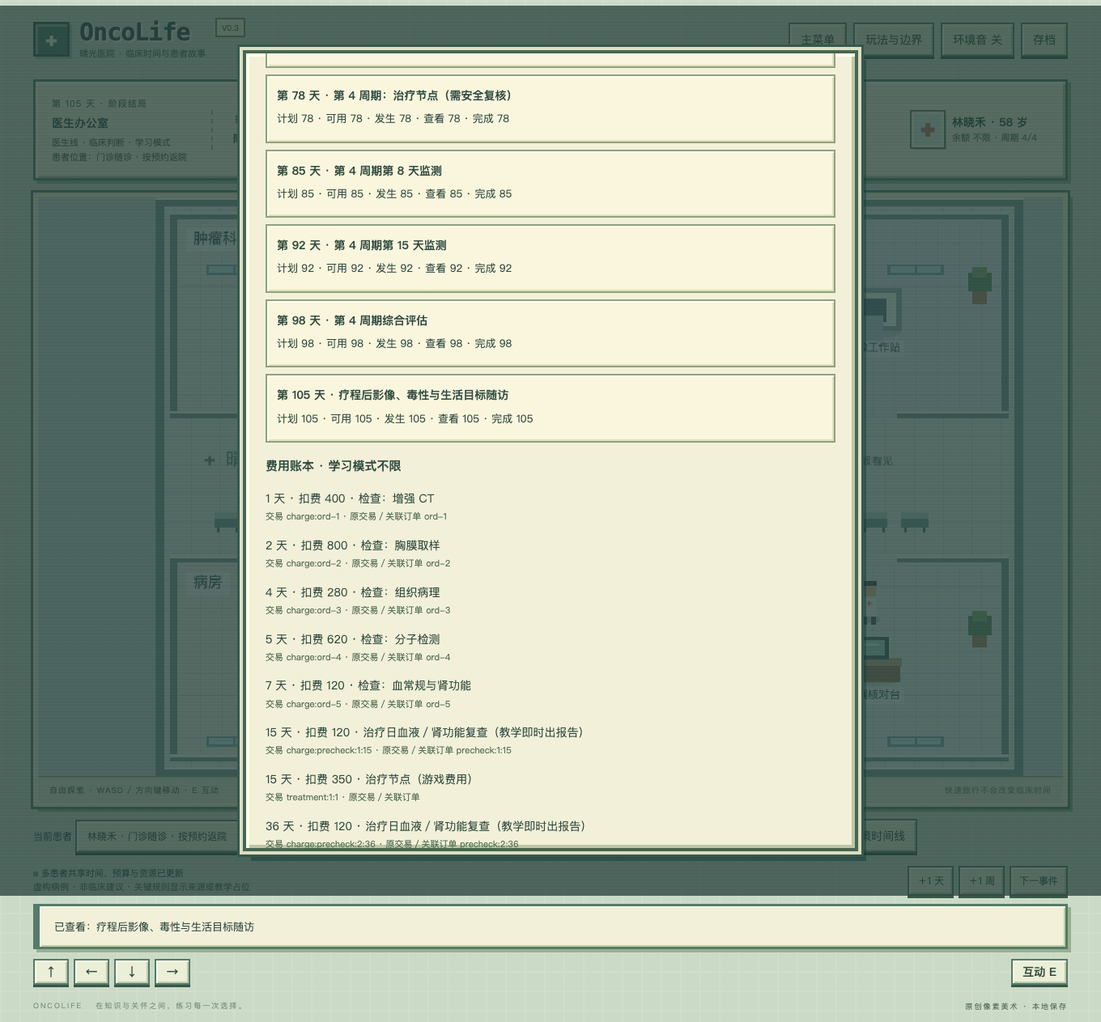
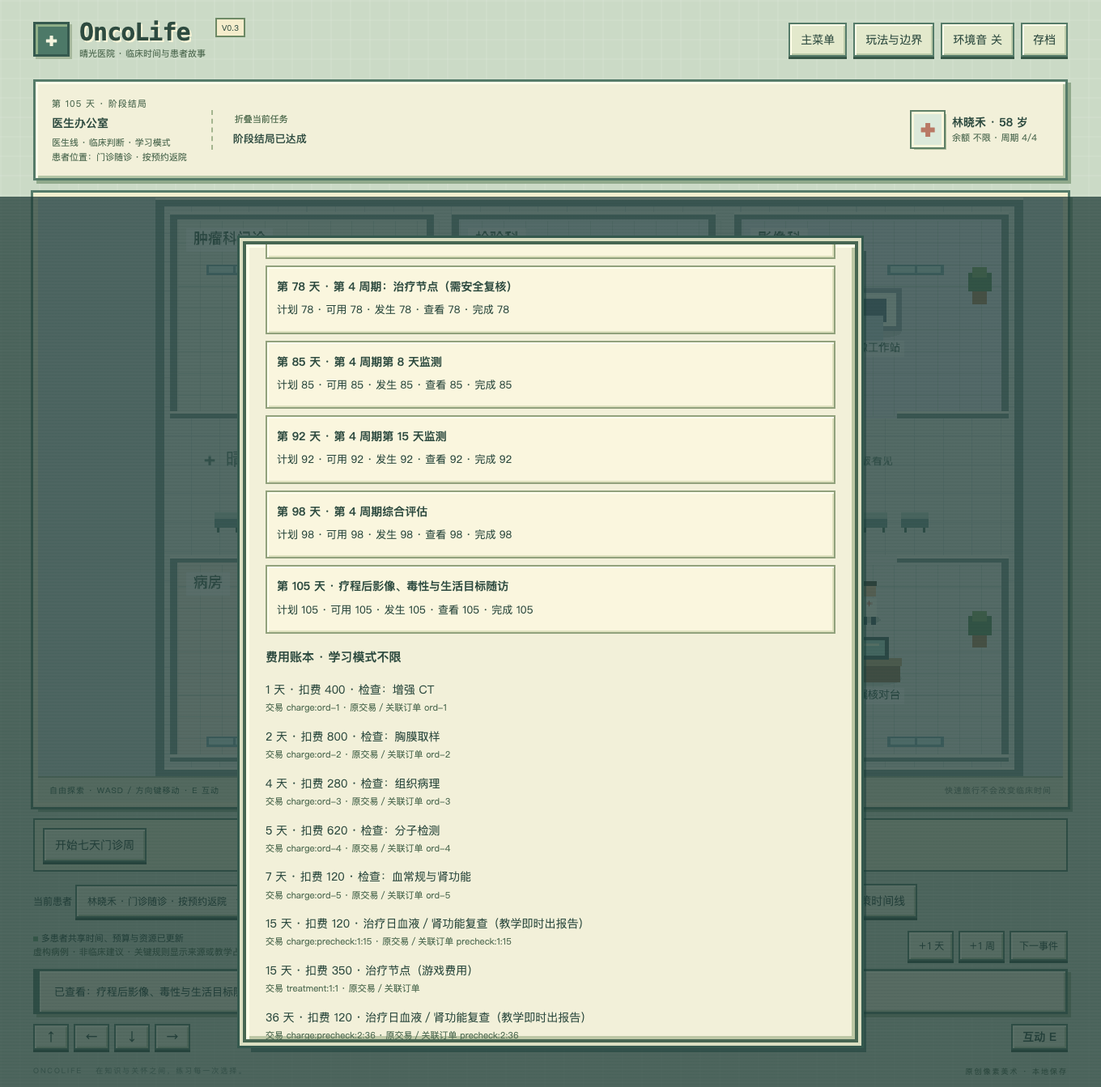
feat: add playable seven-day clinic growth and team stories

diff --git a/src/main.tsx b/src/main.tsx
@@ -1,3 +1,4 @@
+import {ClinicWeek} from './ui/ClinicWeek';
 import {careSetting} from './engine/care-setting';
 import {useEffect,useRef,useState} from 'react';
 import {createRoot} from 'react-dom/client';
@@ -18,13 +19,13 @@ function App(){
  useEffect(()=>{const f=(e:KeyboardEvent)=>{if(e.key==='Escape')g.open(null)};window.addEventListener('keydown',f);return()=>window.removeEventListener('keydown',f)},[g.open]);
  const c=cases[s.caseId], attention=nextAttention(s); const modeName=s.mode==='learning'?'学习模式':s.mode==='gauntlet'?'闯关模式':'挑战模式';
  const enter=(journey:'doctor'|'patient',mode:'learning'|'gauntlet'|'challenge',caseId?:typeof s.caseId)=>{g.enter(journey,mode,caseId);activeScene?.travel('lobby')};
- const menu=()=> <div className="overlay journey-menu"><section className="modal" role="dialog" aria-label="选择旅程"><small>ONCOLIFE / V0.3</small><h1>同一座医院，<br/>两段完整的临床旅程。</h1><p>选择身份和模式。闯关与挑战随机接诊，诊断随检查揭示。所有病例、费用与事件均为虚构教学模拟。</p><div className="journey-choices"><button onClick={()=>enter('doctor',s.mode)}><span>✚</span><h2>医生模式</h2><small>Clinical Journey</small><p>自由问诊、选择检查、解读证据、完成多周期治疗。</p><b>{savedEntry(localStorage,'doctor',s.mode)?'继续医生旅程':'开始医生旅程'} →</b></button><button onClick={()=>enter('patient',s.mode)}><span>☀</span><h2>患者模式</h2><small>Patient Journey</small><p>从症状出现、等待结果到参与治疗决策，记录生活体验。</p><b>{savedEntry(localStorage,'patient',s.mode)?'继续患者旅程':'开始患者旅程'} →</b></button></div><h3>游戏模式</h3><div className="actions"><button onClick={()=>enter(s.journey,'learning')}>学习模式 · 不限预算</button><button onClick={()=>enter(s.journey,'gauntlet')}>闯关模式 · 评分目标</button><button onClick={()=>enter(s.journey,'challenge')}>挑战模式 · 有限资源</button></div><p className="intro">首次进入闯关／挑战随机分配病例；已有进度则继续原存档。身份入口沿用当前模式。</p><details className="teaching-picker"><summary>指定教学病例 · 仅学习模式</summary><p>选择一个病例进行定向练习。此处会显示教学主题。</p><div className="casegrid">{caseList.map(x=><button key={x.id} onClick={()=>enter(s.journey,'learning',x.id)}><b>{x.title}</b><small>{x.summary}</small></button>)}</div></details><small>医生与患者存档独立保存；护士、检验人员和家属以 NPC 形式出现。</small></section></div>;
+ const menu=()=> <div className="overlay journey-menu"><section className="modal" role="dialog" aria-label="选择旅程"><small>ONCOLIFE / V0.3</small><h1>同一座医院，<br/>两段完整的临床旅程。</h1><p>选择身份和模式。闯关与挑战随机接诊，诊断随检查揭示。所有病例、费用与事件均为虚构教学模拟。</p><div className="journey-choices"><button onClick={()=>enter('doctor',s.mode)}><span>✚</span><h2>医生模式</h2><small>Clinical Journey</small><p>自由问诊、选择检查、解读证据、完成多周期治疗。</p><b>{savedEntry(localStorage,'doctor',s.mode)?'继续医生旅程':'开始医生旅程'} →</b></button><button onClick={()=>enter('patient',s.mode)}><span>☀</span><h2>患者模式</h2><small>Patient Journey</small><p>从症状出现、等待结果到参与治疗决策，记录生活体验。</p><b>{savedEntry(localStorage,'patient',s.mode)?'继续患者旅程':'开始患者旅程'} →</b></button></div><button className="week-entry" onClick={()=>{enter('doctor','learning');g.open('week');}}>七天门诊周 · 建设我的科室</button><h3>游戏模式</h3><div className="actions"><button onClick={()=>enter(s.journey,'learning')}>学习模式 · 不限预算</button><button onClick={()=>enter(s.journey,'gauntlet')}>闯关模式 · 评分目标</button><button onClick={()=>enter(s.journey,'challenge')}>挑战模式 · 有限资源</button></div><p className="intro">首次进入闯关／挑战随机分配病例；已有进度则继续原存档。身份入口沿用当前模式。</p><details className="teaching-picker"><summary>指定教学病例 · 仅学习模式</summary><p>选择一个病例进行定向练习。此处会显示教学主题。</p><div className="casegrid">{caseList.map(x=><button key={x.id} onClick={()=>enter(s.journey,'learning',x.id)}><b>{x.title}</b><small>{x.summary}</small></button>)}</div></details><small>医生与患者存档独立保存；护士、检验人员和家属以 NPC 形式出现。</small></section></div>;
  return <main className={s.journey}><header><div className="brand"><span className="logo">✚</span><div><b>OncoLife</b><small>晴光医院 · 临床时间与患者故事</small></div><span className="version">V0.3</span></div><div className="toplinks"><button onClick={g.mainMenu}>主菜单</button><button onClick={()=>g.open('help')}>玩法与边界</button><button onClick={()=>{toggleAudio(!sound);setSound(!sound)}}>环境音 {sound?'开':'关'}</button><button onClick={g.save}>存档</button></div></header>
  <section className="status"><div><span className="eyebrow">第 {s.day} 天 · {s.phase}</span><strong>{g.room}</strong><small>{s.journey==='doctor'?'医生线 · 临床判断':'患者线 · 我的旅程'} · {modeName}</small><small>患者位置：{careSetting(s)}</small></div><div className="mission"><button className="textbutton" onClick={()=>setCollapsed(!collapsed)}>{collapsed?'展开':'折叠'}当前任务</button>{!collapsed&&<strong>{attention?attention.title:(s.complete?'阶段结局已达成':'自由探索并记录下一步')}</strong>}</div><div className="identity"><span className={'avatar '+s.journey}>✚</span><div><b>{c.title.split(' · ')[0]} · {c.patient.age} 岁</b><small>余额 {s.mode==='learning'?'不限':`${s.balance} 游戏币`} · 周期 {s.therapy?.currentCycle||0}/{c.regimen?.cycles||0}</small></div></div></section>
  <section className="gamewrap"><div id="game" ref={ref} aria-label="可探索的像素医院"/><div className="mapnote">自由探索 · WASD / 方向键移动 · E 互动 <span>快速旅行不会改变临床时间</span></div></section>
- <nav className="travel">{s.journey==='doctor'&&!g.campaign&&<button onClick={g.multi}>开启多患者接诊</button>}{g.campaign&&<label>当前患者 <select aria-label="当前患者" value={s.caseId} onChange={e=>g.dispatch({type:'case',caseId:e.target.value as typeof s.caseId})}>{caseList.filter(x=>s.mode==='learning'||g.campaign?.patients[x.id]).map(x=><option value={x.id} key={x.id}>{x.title.split(' · ')[0]} {g.campaign?.patients[x.id]?`· ${careSetting(g.campaign.patients[x.id]!)}`:'· 接诊'}</option>)}</select></label>}{g.campaign&&s.journey==='doctor'&&<button disabled={caseList.every(x=>g.campaign?.patients[x.id])} onClick={()=>{const candidate=nextPatientId(g.campaign!);if(candidate)g.dispatch({type:'case',caseId:candidate});}}>接诊下一位</button>}<label>院内导航 <select aria-label="旅行目的地" value={travel} onChange={e=>setTravel(e.target.value)}>{objects.map(o=><option value={o.id} key={o.id}>{o.room} · {o.label}</option>)}</select></label><button onClick={()=>activeScene?.travel(travel)}>快速旅行</button><button onClick={()=>activeScene?.travel(travel,true)}>自动寻路</button><button onClick={()=>{const place=attention?.kind==='adverse'?'ward':attention?.kind==='report'?'lab':['administration','assessment'].includes(attention?.kind||'')?'therapy':'clinic';activeScene?.travel(place);g.open(place)}}>当前任务地点</button><button onClick={()=>g.open(s.journey==='doctor'?'record':'record')}>{s.journey==='doctor'?'病历 / 决策时间线':'日记 / 预约'}</button></nav>
+ {s.journey==='doctor'&&<div className="week-strip"><button onClick={()=>g.open('week')}>{g.campaign?.week?`科室周记 · 第 ${g.campaign.week.week} 周 / ${g.campaign.week.shift} 天`:'开始七天门诊周'}</button>{g.campaign?.week&&<span>行动 {g.campaign.week.actions} · 科室币 {g.campaign.week.funds} · {g.campaign.week.phase==='summary'?'周末升级可用':'今日：院内工作 + 团队故事'}</span>}</div>}<nav className="travel">{s.journey==='doctor'&&!g.campaign&&<button onClick={g.multi}>开启多患者接诊</button>}{g.campaign&&<label>当前患者 <select aria-label="当前患者" value={s.caseId} onChange={e=>g.dispatch({type:'case',caseId:e.target.value as typeof s.caseId})}>{caseList.filter(x=>s.mode==='learning'||g.campaign?.patients[x.id]).map(x=><option value={x.id} key={x.id}>{x.title.split(' · ')[0]} {g.campaign?.patients[x.id]?`· ${careSetting(g.campaign.patients[x.id]!)}`:'· 接诊'}</option>)}</select></label>}{g.campaign&&s.journey==='doctor'&&<button disabled={caseList.every(x=>g.campaign?.patients[x.id])} onClick={()=>{const candidate=nextPatientId(g.campaign!);if(candidate)g.dispatch({type:'case',caseId:candidate});}}>接诊下一位</button>}<label>院内导航 <select aria-label="旅行目的地" value={travel} onChange={e=>setTravel(e.target.value)}>{objects.map(o=><option value={o.id} key={o.id}>{o.room} · {o.label}</option>)}</select></label><button onClick={()=>activeScene?.travel(travel)}>快速旅行</button><button onClick={()=>activeScene?.travel(travel,true)}>自动寻路</button><button onClick={()=>{const place=attention?.kind==='adverse'?'ward':attention?.kind==='report'?'lab':['administration','assessment'].includes(attention?.kind||'')?'therapy':'clinic';activeScene?.travel(place);g.open(place)}}>当前任务地点</button><button onClick={()=>g.open(s.journey==='doctor'?'record':'record')}>{s.journey==='doctor'?'病历 / 决策时间线':'日记 / 预约'}</button></nav>
  <section className="bottom"><div><span className="dot"/> {g.notice}<small>虚构病例 · 非临床建议 · 关键规则显示来源或教学占位</small></div><div className="time"><button onClick={()=>g.time(1)}>＋1 天</button><button onClick={()=>g.time(7)}>＋1 周</button><button onClick={()=>g.time('next')}>下一事件</button></div></section><div className={'toast '+(attention?'alert':'')} role="status">{s.message}</div>
  <div className="touch"><div>{[['↑',0,-1],['←',-1,0],['↓',0,1],['→',1,0]].map(([l,x,y])=><button key={l} aria-label={'移动'+l} onPointerDown={e=>{e.currentTarget.setPointerCapture(e.pointerId);controls.x=Number(x);controls.y=Number(y)}} onPointerUp={()=>{controls.x=0;controls.y=0}}>{l}</button>)}</div><button onClick={()=>{controls.interact=true}}>互动 E</button></div>
- {g.menu?menu():g.panel&&<V03Panel key={s.journey+g.panel+s.caseId}/>}<footer>ONCOLIFE <span>在知识与关怀之间，练习每一次选择。</span><small>原创像素美术 · 本地保存</small></footer></main>
+ {g.menu?menu():g.panel==='week'?<ClinicWeek/>:g.panel&&<V03Panel key={s.journey+g.panel+s.caseId}/>}<footer>ONCOLIFE <span>在知识与关怀之间，练习每一次选择。</span><small>原创像素美术 · 本地保存</small></footer></main>
 }
 createRoot(document.getElementById('root')!).render(<App/>);

diff --git a/src/engine/clinic-week.ts b/src/engine/clinic-week.ts
@@ -1,0 +1,37 @@
+import type {Campaign} from './v03-campaign';
+import {campaignRun} from './v03-campaign';
+import type {Command} from './v03-engine';
+export type Upgrade='nurse'|'lounge'|'planner';
+export type WeekState={week:number;shift:number;phase:'work'|'summary';actions:number;funds:number;trust:number;fatigue:number;done:string[];clinical:string[];resolved:boolean;upgrades:Upgrade[];souvenirs:string[];history:{week:number;shift:number;day:number;reward:number;work:number;clinical:number}[];journal:string[];message:string};
+export type WeekCommand={type:'start'}|{type:'work';id:string}|{type:'choice';index:number}|{type:'end'}|{type:'buy';id:Upgrade}|{type:'next'};
+export const jobs=[{id:'round',name:'和护士小夏交班',room:'病房',destination:'ward',text:'一起核对患者安排，减少交接遗漏。',trust:2,fatigue:1},{id:'family',name:'倾听家属的生活困难',room:'肿瘤科门诊',destination:'clinic',text:'把接送、请假与照顾家人的难题记进工作计划。',trust:2,fatigue:2},{id:'equipment',name:'协调检验设备维护',room:'检验科',destination:'lab',text:'整理非紧急工作顺序，维护团队协作。',trust:1,fatigue:1},{id:'rest',name:'和同事一起休息',room:'医院大厅',destination:'lobby',text:'短暂休息能缓解工作疲劳，照护团队也需要被照护。',trust:1,fatigue:-3}];
+export const upgrades:Record<Upgrade,{name:string;cost:number;text:string}>={nurse:{name:'聘请门诊协作护士',cost:120,text:'下周起每天多 1 格经营行动。'},lounge:{name:'布置休息角',cost:90,text:'下周起每日额外恢复 2 点疲劳，大厅出现休息角。'},planner:{name:'升级团队日程板',cost:240,text:'每天有效临床工作奖励每项增加 5 科室币（每日最多 3 项）。'}};
+export const stories=[
+ {title:'第一天：小夏的交接本',text:'护士小夏担心新团队忙起来后遗漏患者的生活安排。她希望你一起设计交接方式。',options:[{label:'亲自整理交接本（1 行动）',ap:1,cost:0,trust:3,fatigue:1,result:'小夏把你列为可靠的交班伙伴。'},{label:'购买交接用品（20 科室币）',ap:0,cost:20,trust:1,fatigue:0,result:'用品到位，留出了今日沟通时间。'}]},
+ {title:'第二天：家属的末班车',text:'陪诊家属担心错过回家的车。检查并不会因此被取消，但团队需要帮助安排返程。',options:[{label:'协调返程信息（1 行动）',ap:1,cost:0,trust:3,fatigue:2,result:'家属拿到了路线和联系方式，愿意说出更多生活顾虑。'},{label:'使用交通关怀金（25 科室币）',ap:0,cost:25,trust:2,fatigue:0,result:'科室承担了虚构交通支持费用。'}]},
+ {title:'第三天：设备维护通知',text:'检验团队希望整理设备维护后的预约通知。必要急诊检查仍走原流程。',options:[{label:'协助核对通知（1 行动）',ap:1,cost:0,trust:2,fatigue:1,result:'检验同事感谢你把行政工作分担了一部分。'},{label:'申请行政协作（20 科室币）',ap:0,cost:20,trust:1,fatigue:-1,result:'行政同事接手通知，你得以喘口气。'}]},
+ {title:'第四天：午休还是加班',text:'你发现自己越来越疲劳，小夏也想和你聊聊第一次值班的经历。',options:[{label:'一起午休（1 行动）',ap:1,cost:0,trust:2,fatigue:-4,result:'小夏讲起她曾经的紧张，你们的距离近了些。'},{label:'整理明日安排（1 行动）',ap:1,cost:0,trust:3,fatigue:2,result:'准备工作更充分，但今晚需要好好休息。'}]},
+ {title:'第五天：患者想保留的生活',text:'一位患者希望继续参加社区合唱。你们需要讨论交通、体力和复诊安排，不承诺疗效。',options:[{label:'讨论可执行的生活计划（1 行动）',ap:1,cost:0,trust:3,fatigue:1,result:'患者觉得自己的生活目标被认真对待。'},{label:'请社工协作（30 科室币）',ap:0,cost:30,trust:2,fatigue:0,result:'社工加入生活支持；并未替代医学评估。'}]},
+ {title:'第六天：临时调班',text:'同事家里有事，需要有人帮忙整理非紧急的行政交接。',options:[{label:'分担交接（2 行动）',ap:2,cost:0,trust:4,fatigue:2,result:'同事记住了这次支持，也提醒你不要长期透支。'},{label:'安排临时行政支持（40 科室币）',ap:0,cost:40,trust:1,fatigue:0,result:'支援按时到位，团队不必超时承担行政工作。'}]},
+ {title:'第七天：给团队的一封信',text:'第一轮七天即将结束。小夏邀请大家写下最想保留和最想改变的一件事。',options:[{label:'组织团队复盘（1 行动）',ap:1,cost:0,trust:3,fatigue:1,result:'大家留下了下一周的共同目标。'},{label:'准备感谢茶点（20 科室币）',ap:0,cost:20,trust:2,fatigue:-2,result:'一次轻松的聚会，让这周有了温暖的收尾。'}]}
+];
+export function initialWeek():WeekState{return {week:1,shift:1,phase:'work',actions:3,funds:60,trust:0,fatigue:0,done:[],clinical:[],resolved:false,upgrades:[],souvenirs:[],history:[],journal:[],message:'去病房和小夏交班，完成今日故事后结束工作日。科室币只用于经营，不是医疗预算。'};}
+export function clinicalProgress(before:Campaign,after:Campaign,cmd:Command){const w=after.week;if(!w||w.phase!=='work')return after;const a=before.patients[before.activeId]!,b=after.patients[before.activeId]!;let key='';if(cmd.type==='clue'&&b.flags.length>a.flags.length)key=`${b.caseId}:interview`;if((cmd.type==='order'||cmd.type==='orderBatch')&&b.orders.length>a.orders.length)key=`${b.caseId}:orders`;if(cmd.type==='ack'&&b.events.filter(e=>e.completedAt!==undefined).length>a.events.filter(e=>e.completedAt!==undefined).length)key=`${b.caseId}:review`;if(cmd.type==='adverse'&&b.flags.length>a.flags.length)key=`${b.caseId}:urgent`;if(key&&!w.clinical.includes(key))w.clinical.push(key);return after;}
+export function weekRun(before:Campaign,command:WeekCommand,room:string):Campaign{
+ let c=structuredClone(before);if(c.journey!=='doctor')return c;if(command.type==='start'){c.week??=initialWeek();return c;}const w=c.week;if(!w)return c;
+ const tell=(message:string)=>{w.message=message;return c;};
+ if(command.type==='buy'){if(w.phase!=='summary')return tell('请在周末结算后购买升级。');const u=upgrades[command.id];if(w.upgrades.includes(command.id)||w.funds<u.cost)return tell('已拥有该升级，或科室币不足。');w.funds-=u.cost;w.upgrades.push(command.id);w.journal.push(`第 ${w.week} 周：${u.name}`);return tell('升级已安装：'+u.text);}
+ if(command.type==='next'){if(w.phase!=='summary')return tell('先完成七天再开始新一周。');w.week++;w.shift=1;w.phase='work';w.done=[];w.clinical=[];w.resolved=false;w.actions=3+Number(w.upgrades.includes('nurse'))-(w.fatigue>=8?1:0);return tell('新一周开始，团队升级已生效；临床预约和患者进度继续。');}
+ if(w.phase!=='work')return tell('本周已结算，可升级科室或开始下一周。');
+ if(command.type==='work'){const job=jobs.find(j=>j.id===command.id);if(!job)return c;if(room!==job.room)return tell('请先前往'+job.room+'，再执行这项工作。');if(w.done.includes(job.id)||w.actions<1)return tell('今日已完成，或行动不足。');w.actions--;w.done.push(job.id);w.trust+=job.trust;w.fatigue=Math.max(0,w.fatigue+job.fatigue);return tell(job.text);}
+ if(command.type==='choice'){const option=command.index===2?{label:'推迟非紧急行政安排',ap:0,cost:0,trust:-1,fatigue:2,result:'非紧急行政工作改期，团队信任下降，后续协调增加疲劳；医疗安排不变。'}:stories[w.shift-1].options[command.index];if(!option||w.resolved)return tell('今日故事已处理。');if(w.actions<option.ap||w.funds<option.cost)return tell('行动或科室币不足，可以选择推迟非紧急行政安排。');if(!w.done.length&&w.actions-option.ap<1)return tell('请先完成一项院内工作，或选择不占用行动的方案。');w.actions-=option.ap;w.funds-=option.cost;w.trust+=option.trust;w.fatigue=Math.max(0,w.fatigue+option.fatigue);w.resolved=true;w.journal.push(`第 ${w.week} 周第 ${w.shift} 天：${option.result}`);return tell(option.result);}
+ // No clinical operation is charged an action point. End-of-day cannot skip due clinical events.
+ if(!w.resolved)return tell('请先处理今日团队故事；保留所需行动或选择行政支持。');
+ if(!w.done.length)return tell('至少完成一项院内工作再结束当天。');
+ const moved=campaignRun(c,{type:'advance',days:1});if(moved.day===c.day)return tell('仍有到期报告或临床事件，先处理后再下班；急救不消耗经营行动。');
+ c=moved;const n=c.week!;const reward=30+n.done.length*5+Math.min(3,n.clinical.length)*(n.upgrades.includes('planner')?15:10);n.funds+=reward;n.history.push({week:n.week,shift:n.shift,day:before.day,reward,work:n.done.length,clinical:n.clinical.length});
+ n.fatigue=Math.max(0,n.fatigue-2-(n.upgrades.includes('lounge')?2:0));if(n.trust>=12&&!n.souvenirs.includes('小夏的手写便签'))n.souvenirs.push('小夏的手写便签');
+ if(n.shift===7){n.phase='summary';if(n.history.filter(h=>h.week===n.week).every(h=>h.clinical>0)&&!n.souvenirs.includes('认真倾听纪念章'))n.souvenirs.push('认真倾听纪念章');n.message=`第 ${n.week} 周完成！本次获得 ${reward} 科室币。可在周末升级科室，再开始下一周。`;}
+ else{n.shift++;n.done=[];n.clinical=[];n.resolved=false;n.actions=3+Number(n.upgrades.includes('nurse'))-(n.fatigue>=8?1:0);n.message=`下班结算 +${reward} 科室币。第 ${n.shift} 天开始${n.fatigue>=8?'；疲劳较高，经营行动减少 1 格，可安排休息':''}。`;}
+ return c;
+}

diff --git a/src/engine/v03-store.ts b/src/engine/v03-store.ts
@@ -1,3 +1,4 @@
+import {weekRun,clinicalProgress,WeekCommand} from './clinic-week';
 import {entryKey,randomCase,savedEntry} from './entry';
 import {create} from 'zustand';
 import {CaseId,Journey,Mode,GameState} from './v03-types';
@@ -9,5 +10,5 @@ function save(s:GameState){try{localStorage.setItem(entryKey(s.journey,s.mode),s
 const campaignKey=(j:Journey,m:Mode='challenge')=>m==='challenge'?`oncolife-v3-campaign-${j}`:`oncolife-v3-campaign-${j}-${m}`;
 function loadCampaign(j:Journey,id:CaseId):Campaign{try{const c=JSON.parse(localStorage.getItem(campaignKey(j))||'null');if(c?.version===3&&c.journey===j&&c.patients)return selectPatient(c,id);}catch{}return campaign(j,id);}
 function saveCampaign(c:Campaign){localStorage.setItem(campaignKey(c.journey,c.patients[c.activeId]!.mode),JSON.stringify(c));for(const s of Object.values(c.patients))save(s);}
-type Store={state:GameState;campaign:Campaign|null;menu:boolean;panel:string|null;room:string;notice:string;dispatch:(c:Parameters<typeof run>[1])=>void;enter:(j:Journey,mode?:Mode,caseId?:CaseId)=>void;open:(p:string|null)=>void;setRoom:(r:string)=>void;time:(d:number|'next')=>void;save:()=>void;mainMenu:()=>void;multi:()=>void;reset:()=>void};
-export const useV03=create<Store>((set,get)=>{const update=(s:GameState)=>{const ok=save(s);set({state:s,notice:ok?'V0.3 自动存档已更新':'保存失败，请检查浏览器存储'});};return {state:initialV03(),campaign:null,menu:true,panel:null,room:'医院大厅',notice:'医生与患者、病例和模式独立存档',dispatch:c=>{const pool=get().campaign;if(pool){if(c.type==='case'&&!pool.patients[c.caseId]){const old=localStorage.getItem(key(pool.journey,get().state.mode,c.caseId));if(old)localStorage.setItem(key(pool.journey,get().state.mode,c.caseId)+'-before-campaign',old);}const n=campaignRun(pool,c);try{saveCampaign(n);}catch{}set({campaign:n,state:n.patients[n.activeId]!,notice:'多患者共享时间、预算与资源已更新'});}else update(run(get().state,c));},enter:(j,m='learning',selected)=>{const c=selected??savedEntry(localStorage,j,m)??(m==='learning'?'driver-negative':randomCase(crypto.getRandomValues(new Uint32Array(1))[0]/4294967296));localStorage.setItem(entryKey(j,m),c);if(m==='challenge'){const pool=loadCampaign(j,c);try{saveCampaign(pool);}catch{}set({campaign:pool,state:pool.patients[c]!,menu:false,panel:null});}else{try{const pool=JSON.parse(localStorage.getItem(campaignKey(j,m))||'null') as Campaign|null;if(j==='doctor'&&pool?.version===3&&pool.patients){if(!pool.patients[c]){const prior=localStorage.getItem(key(j,m,c));if(prior)localStorage.setItem(key(j,m,c)+'-before-campaign',prior);}const n=selectPatient(pool,c);saveCampaign(n);set({campaign:n,state:n.patients[c]!,menu:false,panel:null});return;}}catch{}const s=load(j,m,c);if(j==='doctor'){const pool=campaign(j,c,m,s);saveCampaign(pool);set({campaign:pool,state:pool.patients[c]!,menu:false,panel:null});}else{set({campaign:null,state:s,menu:false,panel:null});save(s);}}},open:p=>set({panel:p==='scan'?'lab':p==='office'?'record':p==='lobby'?'clinic':p}),setRoom:r=>set({room:r}),time:d=>get().dispatch({type:'advance',days:d}),save:()=>set({notice:save(get().state)?'存档成功':'保存失败'}),mainMenu:()=>set({menu:true,panel:null}),multi:()=>{const s=get().state;if(s.journey!=='doctor')return;const saved=localStorage.getItem(campaignKey(s.journey,s.mode));if(saved){const pool=JSON.parse(saved) as Campaign;set({campaign:pool,state:pool.patients[pool.activeId]!});return;}const pool=campaign(s.journey,s.caseId,s.mode,s);saveCampaign(pool);set({campaign:pool,notice:'多患者接诊已开启；新病例从当前日期接诊，原独立存档保留'});},reset:()=>{const s=get().state;if(get().campaign){const pool=campaign(s.journey,s.caseId,s.mode);try{saveCampaign(pool);}catch{}set({campaign:pool,state:pool.patients[s.caseId]!,panel:null});}else update(initialV03(s.journey,s.mode,s.caseId));}};});
+type Store={state:GameState;campaign:Campaign|null;menu:boolean;panel:string|null;room:string;notice:string;dispatch:(c:Parameters<typeof run>[1])=>void;enter:(j:Journey,mode?:Mode,caseId?:CaseId)=>void;open:(p:string|null)=>void;setRoom:(r:string)=>void;time:(d:number|'next')=>void;save:()=>void;mainMenu:()=>void;multi:()=>void;week:(c:WeekCommand)=>void;reset:()=>void};
+export const useV03=create<Store>((set,get)=>{const update=(s:GameState)=>{const ok=save(s);set({state:s,notice:ok?'V0.3 自动存档已更新':'保存失败，请检查浏览器存储'});};return {state:initialV03(),campaign:null,menu:true,panel:null,room:'医院大厅',notice:'医生与患者、病例和模式独立存档',dispatch:c=>{const pool=get().campaign;if(pool){if(pool.week&&c.type==='advance'){set({notice:'门诊周期间请在科室周记结束当天；临床操作与急救不消耗经营行动。',panel:'week'});return;}if(c.type==='case'&&!pool.patients[c.caseId]){const old=localStorage.getItem(key(pool.journey,get().state.mode,c.caseId));if(old)localStorage.setItem(key(pool.journey,get().state.mode,c.caseId)+'-before-campaign',old);}const n=clinicalProgress(pool,campaignRun(pool,c),c);try{saveCampaign(n);}catch{}set({campaign:n,state:n.patients[n.activeId]!,notice:'多患者共享时间、预算与资源已更新'});}else update(run(get().state,c));},enter:(j,m='learning',selected)=>{const c=selected??savedEntry(localStorage,j,m)??(m==='learning'?'driver-negative':randomCase(crypto.getRandomValues(new Uint32Array(1))[0]/4294967296));localStorage.setItem(entryKey(j,m),c);if(m==='challenge'){const pool=loadCampaign(j,c);try{saveCampaign(pool);}catch{}set({campaign:pool,state:pool.patients[c]!,menu:false,panel:null});}else{try{const pool=JSON.parse(localStorage.getItem(campaignKey(j,m))||'null') as Campaign|null;if(j==='doctor'&&pool?.version===3&&pool.patients){if(!pool.patients[c]){const prior=localStorage.getItem(key(j,m,c));if(prior)localStorage.setItem(key(j,m,c)+'-before-campaign',prior);}const n=selectPatient(pool,c);saveCampaign(n);set({campaign:n,state:n.patients[c]!,menu:false,panel:null});return;}}catch{}const s=load(j,m,c);if(j==='doctor'){const pool=campaign(j,c,m,s);saveCampaign(pool);set({campaign:pool,state:pool.patients[c]!,menu:false,panel:null});}else{set({campaign:null,state:s,menu:false,panel:null});save(s);}}},open:p=>set({panel:p==='scan'?'lab':p==='office'?'record':p==='lobby'?'clinic':p}),setRoom:r=>set({room:r}),time:d=>get().dispatch({type:'advance',days:d}),save:()=>set({notice:save(get().state)?'存档成功':'保存失败'}),mainMenu:()=>set({menu:true,panel:null}),multi:()=>{const s=get().state;if(s.journey!=='doctor')return;const saved=localStorage.getItem(campaignKey(s.journey,s.mode));if(saved){const pool=JSON.parse(saved) as Campaign;set({campaign:pool,state:pool.patients[pool.activeId]!});return;}const pool=campaign(s.journey,s.caseId,s.mode,s);saveCampaign(pool);set({campaign:pool,notice:'多患者接诊已开启；新病例从当前日期接诊，原独立存档保留'});},week:command=>{const pool=get().campaign;if(!pool)return;const n=weekRun(pool,command,get().room);try{saveCampaign(n);set({campaign:n,state:n.patients[n.activeId]!,panel:'week',notice:n.week?.message||''});}catch{set({notice:'保存失败，请导出存档。'});}},reset:()=>{const s=get().state;if(get().campaign){const pool=campaign(s.journey,s.caseId,s.mode);try{saveCampaign(pool);}catch{}set({campaign:pool,state:pool.patients[s.caseId]!,panel:null});}else update(initialV03(s.journey,s.mode,s.caseId));}};});

diff --git a/src/world/Hospital.ts b/src/world/Hospital.ts
@@ -7,6 +7,7 @@ export const controls={x:0,y:0,interact:false};
 export class Hospital extends Phaser.Scene{
  px=350;py=325;keys!:Record<string,Phaser.Input.Keyboard.Key>;avatar!:Phaser.GameObjects.Container;hint!:Phaser.GameObjects.Text;walking=0;lastRoom='';
  patientMarker!:Phaser.GameObjects.Text;
+ weekSign!:Phaser.GameObjects.Text;weekDecor!:Phaser.GameObjects.Graphics;weekLook='';
  route:{x:number;y:number}[]=[];
  travel(id:string,walk=false){const target=destinations[id];if(!target)return;useGame.getState().open(null);if(walk){this.route=findPath({x:this.px,y:this.py},target);useGame.setState({notice:this.route.length?'正在自动寻路；方向键可取消':'路线不可达，请使用快速旅行'});}else{this.route=[];this.px=target.x;this.py=target.y;useGame.getState().setRoom(roomAt(this.px,this.py));}}
  constructor(){super('hospital');}
@@ -32,6 +33,7 @@ export class Hospital extends Phaser.Scene{
  this.add.text(x,y+39,o.label,{fontSize:'12px',color:'#395e56',backgroundColor:'#ffffffa0',padding:{x:4,y:3}}).setOrigin(.5);
  this.add.zone(x,y,88,90).setInteractive({useHandCursor:true}).on('pointerdown',()=>{if(Math.hypot(this.px-x,this.py-y)<100)useGame.getState().open(o.id);else useGame.setState({notice:'请先走近目标，再点击或按 E 互动。'});});
  });
+ this.weekDecor=this.add.graphics().setDepth(3);this.weekSign=this.add.text(535,255,'',{fontSize:'12px',color:'#315b43',backgroundColor:'#f5f1d4',padding:{x:5,y:4}}).setDepth(4).setInteractive({useHandCursor:true}).on('pointerdown',()=>{if(!useGame.getState().menu)useGame.getState().open('week');});
  this.patientMarker=this.add.text(220,180,'',{fontSize:'12px',color:'#305d47',backgroundColor:'#faffed',padding:{x:4,y:3}}).setDepth(12);
  this.npc(575,330,0xe2efef);this.npc(255,470,0x8cb3bd);
  const shadow=this.add.ellipse(0,7,24,9,0x456858,.25);const body=this.add.rectangle(0,-7,16,21,0xf7faf0);const head=this.add.rectangle(0,-26,14,14,0xe8bf99);const hair=this.add.rectangle(0,-33,16,6,0x4d5045);const leg1=this.add.rectangle(-5,7,5,11,0x455f6c);const leg2=this.add.rectangle(5,7,5,11,0x455f6c);const cross=this.add.text(-4,-16,'+',{fontSize:'12px',color:'#cf7966'});
@@ -44,7 +46,7 @@ export class Hospital extends Phaser.Scene{
  interact(){const nearest=objects.find(o=>Math.hypot(o.x-this.px,o.y-this.py)<88);if(nearest)useGame.getState().open(nearest.id);}
  npc(x:number,y:number,color:number){const g=this.add.graphics();g.fillStyle(0x57746b).fillRect(x-7,y+8,5,12).fillRect(x+2,y+8,5,12);g.fillStyle(color).fillRect(x-10,y-10,20,22);g.fillStyle(0xe4bc99).fillRect(x-7,y-24,14,14);g.fillStyle(0x555647).fillRect(x-8,y-27,16,6);}
  update(_:number,dt:number){
- if(!this.keys)return;const store=useGame.getState();const inpatient=store.state.admissions.some(a=>a.status==='admitted'||a.status==='observing');this.patientMarker.setPosition(175,inpatient?460:185).setText('● '+cases[store.state.caseId].title.split(' · ')[0]+' · '+(inpatient?'住院':'门诊'));if(store.panel||store.menu){this.route=[];controls.x=0;controls.y=0;controls.interact=false;return;}
+ if(!this.keys)return;const store=useGame.getState();const week=store.campaign?.week;this.weekSign.setVisible(!!week);if(week){this.weekSign.setText(`科室第 ${week.week} 周 · 纪念物 ${week.souvenirs.length} 件\n${week.upgrades.includes('nurse')?'协作护士已到岗':'新团队磨合中'} · 点击周记`);const look=week.upgrades.join(',')+week.souvenirs.length;if(look!==this.weekLook){this.weekLook=look;const g=this.weekDecor;g.clear();if(week.upgrades.includes('lounge')){g.fillStyle(0x739678).fillRect(640,340,35,20);g.fillStyle(0xd8e7b7).fillRect(640,336,35,8);g.fillStyle(0xa77c53).fillRect(680,341,22,19);g.fillStyle(0x68934f).fillRect(678,326,26,18);}if(week.upgrades.includes('planner')){g.fillStyle(0x947955).fillRect(530,450,55,38);g.fillStyle(0xf4efc8).fillRect(534,454,47,30);for(let i=0;i<3;i++)g.fillStyle(0x74987a).fillRect(538,459+i*7,34,3);}if(week.souvenirs.length){g.fillStyle(0xe3b65a).fillRect(540,493,12,14);g.fillStyle(0xb48c49).fillRect(537,507,18,4);}}}else{this.weekDecor.clear();this.weekLook='';}const inpatient=store.state.admissions.some(a=>a.status==='admitted'||a.status==='observing');this.patientMarker.setPosition(175,inpatient?460:185).setText('● '+cases[store.state.caseId].title.split(' · ')[0]+' · '+(inpatient?'住院':'门诊'));if(store.panel||store.menu){this.route=[];controls.x=0;controls.y=0;controls.interact=false;return;}
  let dx=Number(this.keys.D.isDown||this.keys.RIGHT.isDown)-Number(this.keys.A.isDown||this.keys.LEFT.isDown)+controls.x;let dy=Number(this.keys.S.isDown||this.keys.DOWN.isDown)-Number(this.keys.W.isDown||this.keys.UP.isDown)+controls.y;
  if(dx||dy)this.route=[];
  if(this.route.length){const p=this.route[0];if(Math.hypot(p.x-this.px,p.y-this.py)<4){this.route.shift();}else{dx=p.x-this.px;dy=p.y-this.py;}}

diff --git a/src/ui/ClinicWeek.tsx b/src/ui/ClinicWeek.tsx
@@ -1,0 +1,13 @@
+import {useV03} from '../engine/v03-store';
+import {jobs,stories,upgrades,Upgrade} from '../engine/clinic-week';
+import {activeScene} from '../world/Hospital';
+export function ClinicWeek(){const g=useV03(),w=g.campaign?.week;
+ const travel=(id:string)=>{activeScene?.travel(id);g.open('week');};
+ return <div className="overlay"><section className="modal" role="dialog" aria-label="科室周记"><div className="modalhead"><h2>晴光医院 · 科室周记</h2><button onClick={()=>g.open(null)}>返回医院 ×</button></div>{!w?<><h3>从这一周，开始建设你的科室</h3><p>七天里，认识护士小夏、协助家属、安排团队工作。每一天先去院内完成工作、处理一段故事，再下班结算。临床工作会获得额外奖励；必要医疗操作不受经营行动点限制。</p><p>科室币与医疗预算独立，不购买疗效。开启后用「结束当天」推进临床日期，报告与紧急事件仍需及时处理。</p><button onClick={()=>g.week({type:'start'})}>开始七天门诊周</button></>:<>
+ <div className="week-stats"><b>第 {w.week} 周 · 第 {w.shift}/7 天</b><span>行动 {w.actions}</span><span>科室币 {w.funds}</span><span>团队信任 {w.trust}</span><span>疲劳 {w.fatigue}</span></div><progress aria-label="门诊周进度" max={7} value={w.history.filter(h=>h.week===w.week).length}/>
+ {w.phase==='work'?<><h3>今日目标</h3><p>{w.done.length?'✓':'□'} 完成至少一项院内工作　{w.resolved?'✓':'□'} 处理团队故事<br/>临床工作奖励：{w.clinical.length} 项（每日最多计奖 3 项，重复点击不计奖）</p><div className="testgrid">{jobs.map(job=><article className="testcard" key={job.id}><b>{job.name}</b><small>{job.room} · 1 行动 · 信任 +{job.trust} · 疲劳 {job.fatigue>0?'+':''}{job.fatigue}</small><p>{job.text}</p>{g.room!==job.room?<button onClick={()=>travel(job.destination)}>前往{job.room}</button>:<button disabled={w.actions<1||w.done.includes(job.id)} onClick={()=>g.week({type:'work',id:job.id})}>{w.done.includes(job.id)?'今日已完成':'执行'+job.name}</button>}</article>)}</div>
+ <article className="report"><h3>{stories[w.shift-1].title}</h3><p>{stories[w.shift-1].text}</p>{w.resolved?<b>今日故事已记录在周记</b>:<div className="actions">{stories[w.shift-1].options.map((o,index)=><button key={o.label} onClick={()=>g.week({type:'choice',index})}>{o.label}<small>信任 +{o.trust} · 疲劳 {o.fatigue>0?'+':''}{o.fatigue}</small></button>)}<button onClick={()=>g.week({type:'choice',index:2})}>推迟非紧急行政安排<small>不耗行动／科室币 · 信任 −1 · 疲劳 +2，医疗预约不变</small></button></div>}</article>
+ <button onClick={()=>g.week({type:'end'})}>结束当天并结算</button><button onClick={()=>g.open('clinic')}>回到临床工作</button><small>当天有未处理临床事件时不能下班。行动点只约束经营，不约束诊疗。</small></>:<><h3>第 {w.week} 周结算 · {w.trust>=25?'可靠的科室搭档':'完成了第一轮磨合'}</h3><p>本周收入 {w.history.filter(h=>h.week===w.week).reduce((n,h)=>n+h.reward,0)} 科室币；临床工作 {w.history.filter(h=>h.week===w.week).reduce((n,h)=>n+h.clinical,0)} 项。下一周保留患者、关系、装饰和升级。</p><div className="testgrid">{Object.entries(upgrades).map(([id,u])=><article className="testcard" key={id}><h3>{u.name}</h3><p>{u.text}</p><button disabled={w.upgrades.includes(id as Upgrade)||w.funds<u.cost} onClick={()=>g.week({type:'buy',id:id as Upgrade})}>{w.upgrades.includes(id as Upgrade)?'已安装':`购买${u.name} · ${u.cost} 科室币`}</button></article>)}</div><button onClick={()=>g.week({type:'next'})}>开始下一周</button></>}
+ <div className="feedback" role="status">{w.message}</div><details><summary>关系与纪念物 · {w.souvenirs.length} 件</summary><p>护士小夏：{w.trust>=25?'信任的搭档':w.trust>=12?'熟悉的同事':'初识的同事'}</p>{w.souvenirs.map(s=><p key={s}>✦ {s}</p>)}<p>纪念物只记录故事，不改变医学结果。</p></details><details><summary>完整科室周记</summary>{w.journal.map((j,i)=><p key={i}>{j}</p>)}{w.history.map(h=><p key={h.week+':'+h.shift}>第 {h.week} 周 / {h.shift} 天 · 临床第 {h.day} 天 · 收入 {h.reward}</p>)}</details></>}
+ </section></div>;
+}

diff --git a/tests/playthrough.spec.ts b/tests/playthrough.spec.ts
@@ -78,3 +78,18 @@ test('默认多患者：批量并行检查后在弹窗接诊下一位',async({pa
  await page.getByRole('dialog').getByRole('button',{name:'接诊下一位',exact:true}).click();const id=await page.getByLabel('切换接诊患者').inputValue();expect(id).not.toBe('driver-negative');await expect(page.getByRole('dialog')).toContainText('在管患者 2 人');
  await next(page);expect((await state(page)).orders.every((o:any)=>o.status==='completed')).toBe(true);await page.getByLabel('当前患者').selectOption('driver-negative');await go(page,'lab');await expect(page.getByRole('dialog')).toContainText('ALT 23');await page.screenshot({path:'docs/batch-investigations.png',fullPage:true});
 });
+test('七天门诊周：院内工作、临床奖励、事件阻断、升级及下周恢复',async({page})=>{
+ await page.goto('/');await button(page,'七天门诊周 · 建设我的科室').click();await page.getByRole('dialog').getByRole('button',{name:'开始七天门诊周',exact:true}).click();
+ const week=async()=>{await close(page);await page.getByRole('button',{name:/^科室周记 ·/}).click();};
+ await go(page,'clinic');await button(page,'患者目标与意愿').click();await go(page,'lab');await page.getByRole('checkbox',{name:'选择增强 CT',exact:true}).check();await button(page,'批量申请所选检查').click();
+ for(let day=1;day<=7;day++){
+  await week();if(await button(page,'前往病房').count())await button(page,'前往病房').click();await button(page,'执行和护士小夏交班').click();
+  const labels=['亲自整理交接本（1 行动）','协调返程信息（1 行动）','协助核对通知（1 行动）','一起午休（1 行动）','讨论可执行的生活计划（1 行动）','分担交接（2 行动）','组织团队复盘（1 行动）'];
+  await page.getByRole('button',{name:new RegExp('^'+labels[day-1].replace(/[（）]/g,'\\$&'))}).click();
+  await button(page,'结束当天并结算').click();
+  if(day===2){await expect(page.getByRole('dialog')).toContainText('先处理后再下班');await confirmReports(page);await week();await button(page,'结束当天并结算').click();}
+ }
+ await expect(page.getByRole('dialog')).toContainText('第 1 周结算');await page.getByRole('button',{name:/购买聘请门诊协作护士/}).click();await page.getByRole('button',{name:/购买布置休息角/}).click();
+ const pool=await page.evaluate(()=>JSON.parse(localStorage.getItem('oncolife-v3-campaign-doctor-learning')!));expect(pool.week.history).toHaveLength(7);expect(pool.week.upgrades).toEqual(['nurse','lounge']);expect(pool.week.history[0].clinical).toBe(2);expect(pool.patients['driver-negative'].orders).toHaveLength(1);
+ await page.screenshot({path:'docs/clinic-week-summary.png',fullPage:true});await page.reload();await button(page,'七天门诊周 · 建设我的科室').click();await expect(page.getByRole('dialog')).toContainText('第 1 周结算');await button(page,'开始下一周').click();await expect(page.getByRole('dialog')).toContainText('第 2 周');await expect(page.getByRole('dialog')).toContainText('行动 4');await close(page);await page.screenshot({path:'docs/clinic-week-hospital.png',fullPage:true});await page.setViewportSize({width:390,height:844});await week();await expect.poll(()=>page.evaluate(()=>document.documentElement.scrollWidth)).toBeLessThanOrEqual(390);await page.screenshot({path:'docs/clinic-week-mobile.png',fullPage:true});
+});

diff --git a/tests/clinic-week.test.ts b/tests/clinic-week.test.ts
@@ -1,0 +1,26 @@
+import {it,expect} from 'vitest';
+import {campaign,campaignRun} from '../src/engine/v03-campaign';
+import {weekRun,clinicalProgress} from '../src/engine/clinic-week';
+const start=()=>weekRun(campaign('doctor','driver-negative','learning'),{type:'start'},'医院大厅');
+it('plays seven shifts, purchases meaningful upgrades and continues without resetting patients',()=>{
+ let c=start();for(let i=0;i<7;i++){c=weekRun(c,{type:'work',id:'round'},'病房');c=weekRun(c,{type:'choice',index:0},'病房');c=weekRun(c,{type:'end'},'病房');}
+ expect(c.week!.phase).toBe('summary');expect(c.day).toBe(8);expect(c.week!.history).toHaveLength(7);expect(c.week!.souvenirs).toContain('小夏的手写便签');
+ c=weekRun(c,{type:'buy',id:'nurse'},'医生办公室');const balance=c.week!.funds;c=weekRun(c,{type:'buy',id:'nurse'},'医生办公室');expect(c.week!.funds).toBe(balance);
+ const patient=structuredClone(c.patients);c=weekRun(c,{type:'next'},'医生办公室');expect(c.week!.week).toBe(2);expect(c.week!.actions).toBe(4);expect(c.patients).toEqual(patient);expect(c.balance).toBe(1000000000);
+});
+it('requires visiting rooms and enforces daily action and event uniqueness',()=>{
+ let c=start();c=weekRun(c,{type:'work',id:'round'},'医院大厅');expect(c.week!.actions).toBe(3);
+ c=weekRun(c,{type:'work',id:'round'},'病房');c=weekRun(c,{type:'work',id:'round'},'病房');expect(c.week!.actions).toBe(2);
+ c=weekRun(c,{type:'choice',index:1},'病房');const w=structuredClone(c.week!);c=weekRun(c,{type:'choice',index:0},'病房');expect(c.week!.funds).toBe(w.funds);expect(c.week!.trust).toBe(w.trust);
+});
+it('settlement cannot bypass due reports or grant rewards twice',()=>{
+ let c=start();c=campaignRun(c,{type:'order',testId:'ct'});c=campaignRun(c,{type:'advance',days:1});c=weekRun(c,{type:'work',id:'round'},'病房');c=weekRun(c,{type:'choice',index:0},'病房');const day=c.day,funds=c.week!.funds;c=weekRun(c,{type:'end'},'病房');expect(c.day).toBe(day);expect(c.week!.funds).toBe(funds);expect(c.week!.history).toHaveLength(0);
+ c=campaignRun(c,{type:'ack',id:'report:ord-1:0'});c=weekRun(c,{type:'end'},'病房');expect(c.week!.history).toHaveLength(1);c=weekRun(c,{type:'end'},'病房');expect(c.week!.history).toHaveLength(1);
+});
+it('records clinical work without spending action points or farming repeated clicks',()=>{
+ let c=start();const cmd={type:'clue' as const,id:'goal'};c=clinicalProgress(c,campaignRun(c,cmd),cmd);c=clinicalProgress(c,campaignRun(c,cmd),cmd);expect(c.week!.clinical).toHaveLength(1);expect(c.week!.actions).toBe(3);expect(JSON.parse(JSON.stringify(c))).toEqual(c);
+});
+it('has a no-money fallback and distinct choice consequences',()=>{
+ let a=start(),b=start();a=weekRun(a,{type:'choice',index:0},'病房');b=weekRun(b,{type:'choice',index:1},'病房');expect(a.week!.actions).not.toBe(b.week!.actions);expect(a.week!.funds).not.toBe(b.week!.funds);
+ let c=start();c.week!.funds=0;c=weekRun(c,{type:'work',id:'round'},'病房');c=weekRun(c,{type:'choice',index:2},'病房');c=weekRun(c,{type:'end'},'病房');expect(c.week!.shift).toBe(2);
+});

diff --git a/src/engine/v03-campaign.ts b/src/engine/v03-campaign.ts
@@ -1,9 +1,10 @@
+import type {WeekState} from './clinic-week';
 import {cases} from '../medical/cases';
 import {CaseId,GameState,Journey,Mode} from './v03-types';
 import {initialV03,run,Command} from './v03-engine';
 import {nextEvent} from './v03-clock';
 export function nextPatientId(c:Campaign):CaseId|undefined{const ids=Object.keys(cases).filter(id=>!c.patients[id as CaseId]) as CaseId[];if(!ids.length)return undefined;let x=(c.day*2654435761+ids.length*97+Object.keys(c.patients).length*7919)>>>0;x^=x<<13;x^=x>>>17;x^=x<<5;return ids[(x>>>0)%ids.length];}
-export type Campaign={version:3;journey:Journey;activeId:CaseId;day:number;balance:number;resources:GameState['resources'];patients:Partial<Record<CaseId,GameState>>};
+export type Campaign={week?:WeekState;version:3;journey:Journey;activeId:CaseId;day:number;balance:number;resources:GameState['resources'];patients:Partial<Record<CaseId,GameState>>};
 export function campaign(journey:Journey,id:CaseId='driver-negative',mode:Mode='challenge',existing?:GameState):Campaign{const s=existing?structuredClone(existing):initialV03(journey,mode,id);return {version:3,journey,activeId:id,day:s.day,balance:s.balance,resources:{...s.resources},patients:{[id]:s}};}
 function shared(c:Campaign){for(const s of Object.values(c.patients)){s.balance=c.balance;s.day=c.day;s.clock.now=c.day;s.resources={...c.resources};}return c;}
 export function selectPatient(before:Campaign,id:CaseId):Campaign{if(before.activeId===id&&before.patients[id])return structuredClone(before);const c=structuredClone(before);c.activeId=id;c.patients[id]??=initialV03(c.journey,c.patients[before.activeId]!.mode,id);const current=c.patients[id]!;const e=nextEvent(current);current.message=`当前接诊：${cases[id].title.split(' · ')[0]}。${e&&e.availableAt<=c.day?'有待处理事件，请查看当前任务。':'可继续问诊、检查或按预约返院。'}`;return shared(c);}

diff --git a/src/ui/style.css b/src/ui/style.css
@@ -39,3 +39,5 @@ small,.brand small{color:#536e55}.eyebrow{color:#536e55}.brand b{font-family:mon
 @media(prefers-reduced-motion:reduce){button:active:not(:disabled){transform:none}}
 
 .batch-orders{border:2px solid #557b69;padding:12px;margin:12px 0;background:#dfe6c7}.batch-orders button{margin:8px}.testcard input[type=checkbox]{accent-color:#557b69;width:18px;height:18px;vertical-align:middle}.toast,.feedback{white-space:pre-line}
+
+.week-strip,.week-stats{display:flex;gap:12px;flex-wrap:wrap;align-items:center;padding:10px;background:#e3e9c8;border:2px solid #557b69;margin-top:14px}.week-entry{width:100%;padding:14px;background:#d6e7b8;font-weight:bold}.week-stats span{background:#fff6d8;padding:4px 8px;border:1px solid #94a37e}.modal>progress{width:100%;accent-color:#557b69;margin:12px 0}

diff --git a/README.md b/README.md
@@ -129,3 +129,16 @@ npm run test:e2e
 检查页勾选项目后点击「批量申请所选检查」。独立项目同日开立、并行等待，各自按预计日期出报告；病理依赖可用组织，分子检测依赖已查看病理。未满足条件、重复或余额不足的项目不收费，反馈逐项说明，其他已成功订单保留。费用为游戏币。
 
 新增肝功能、电解质、凝血功能和心电图候选，有用途、等待时间、费用及具体虚构样本值。它们不是默认必做全套，也未接入自动治疗安全阈值；真实方案的完整器官功能判断仍不在模拟范围内。
+
+## 七天门诊周：科室成长试玩（2026-11-02）
+
+主菜单选择「七天门诊周 · 建设我的科室」，或医生地图下方打开「开始七天门诊周」。这是可选的经营玩法，沿用当前医生学习存档，不重置患者；已开始的周从原进度继续。
+
+1. 每天默认 3 格经营行动，去病房、门诊、检验科或大厅完成院内工作。可自由行走或用周记内的快速旅行。不同工作影响疲劳和团队信任，同一工作每天只计一次。
+2. 处理当天的团队故事。七段固定剧情涉及交接、家属交通、设备通知、休息、生活目标、调班和复盘；选项消耗行动或科室币，产生不同信任和疲劳变化。资源不足可推迟非紧急行政安排，承担信任／疲劳后果，医疗预约不会被取消。
+3. 问诊、开检查、解读报告仍可正常进行，并获得额外经营奖励。每患者每天每类最多记录一次，日结最多奖励三项。诊疗／急救不消耗经营行动。
+4. 至少完成一项院内工作及当天故事，再「结束当天并结算」。时间推进一天；已有报告或临床事件需要先处理，不能用经营结算跳过。普通时间按钮在本玩法内改为打开周记。
+5. 完成七天后获得周结算，可以用独立科室币聘请协作护士（每日 +1 行动）、布置休息角（额外恢复疲劳）、升级日程板（增加有效临床工作奖励）。装饰与纪念物在医院地图可见。
+6. 点击「开始下一周」继续，关系、科室币、升级、纪念物和患者预约保留。每天疲劳 ≥8 时少 1 格经营行动，安排休息或改善休息环境可以缓解。
+
+此试玩提供 7 段故事、4 项院内工作、3 个持久升级和 2 件条件解锁纪念物；第二周会重复这套故事，不宣称已有无限剧情。科室币是虚构经营资源，与医疗预算分开；没有真实支付、抽卡、付费疗效或联网排行榜，也尚未实现完整医院扩建、员工排班和长期剧情分支。游戏奖励公式未经临床或教育效果验证。

diff --git a/docs/V03_DEVELOPMENT_LOG.md b/docs/V03_DEVELOPMENT_LOG.md
@@ -75,3 +75,12 @@
 - 新增 supporting-tests.ts，四类检查的用途、费用与十例独立的虚构样本数据；明确未接入真实临床阈值与完整给药判断。
 - 首轮浏览器发现恢复当前患者会改写最后提示，修复为同患者恢复不修改状态。
 - 修改包含 store、campaign、engine、检查数据、profiles、V03Panel、样式与回归测试；源医学文件保持不变。
+
+## 2026-11-02：七天门诊周可玩闭环
+
+- 新增 clinic-week.ts 经营状态与纯规则：3 格起始行动、4 类院内工作、7 段双路径故事及资源不足兜底、疲劳、团队信任、日结、周结算、升级、纪念物和可连续第二周。
+- Campaign 添加可选 week 字段，旧存档默认无该字段。经营币独立于临床医疗预算，经营行动不限制诊疗／急救，日结复用临床调度器，禁止绕过到期事件。临床命令实际成功后计奖，重复按钮不计奖。
+- 新增 ClinicWeek.tsx；主菜单与地图入口、房间验证、快速旅行、周记、商店。Hospital 根据已购升级和收藏绘制休息角、日程板、纪念物，点击大厅周记牌可打开经营界面。
+- 回归：原 9 条浏览器流程通过；新增流程真实完成七天、确认到期 CT 阻断下班、购买护士与休息角、刷新恢复、进入第二周并确认四格行动。
+- 修复：首轮新测试因页面与弹窗的同名按钮定位失败，改为在对话框内定位；并保留高疲劳跨周的行动惩罚。
+- 未实现：真实付费、无限事件库、完整招募排班、真实建造系统、长期人物分支。后续周复用首周故事；不会描述成完整商业化版本。

diff --git a/docs/V03_TEST_RESULTS.md b/docs/V03_TEST_RESULTS.md
@@ -80,3 +80,11 @@
 ## 默认多患者／批量开单回归（2026-11-02）
 
 63 项逻辑测试通过；新增同日并行、重复收费阻断、依赖和预算逐项处理、患者权限及补充报告值检查。9 条浏览器流程全部通过（33.9 秒），包括默认多患者、弹窗接诊另一位、四项同日检查并行出报告、原有完整疗程与存档刷新。生产构建通过，既有包体大小提示保留。截图 batch-investigations.png。
+
+## 七天门诊周回归（2026-11-02）
+
+- 68 / 68 逻辑测试通过：新增七天结算、购买幂等、跨周成长、房间／行动约束、事件阻断、实际临床工作计奖去重、资源不足兜底与选择后果。
+- 10 / 10 浏览器流程通过（36.7 秒）。新流程实际完成一整周：问诊与 CT 开单 → 院内工作及故事 → 到期 CT 阻断下班 → 查看报告 → 七天结算 → 购买护士及休息角 → 刷新恢复 → 第二周四格行动。旧九条诊疗流程全部通过。
+- 生产构建通过，既有 Phaser chunk-size 提示保留。
+- 已检查 desktop summary／hospital 与 390px 手机截图：clinic-week-summary.png、clinic-week-hospital.png、clinic-week-mobile.png。手机无横向溢出。
+- 验证仅证明规则、交互及保存可用；未做玩家留存、付费意愿或教育效果实测。
